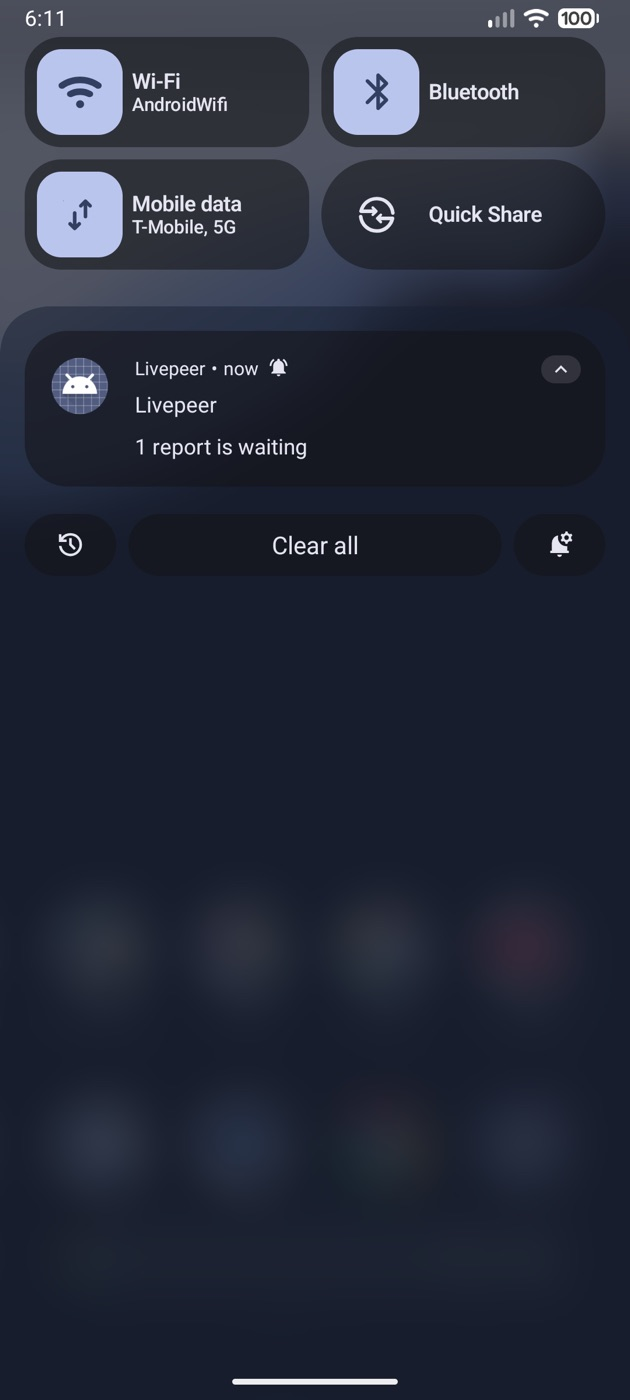
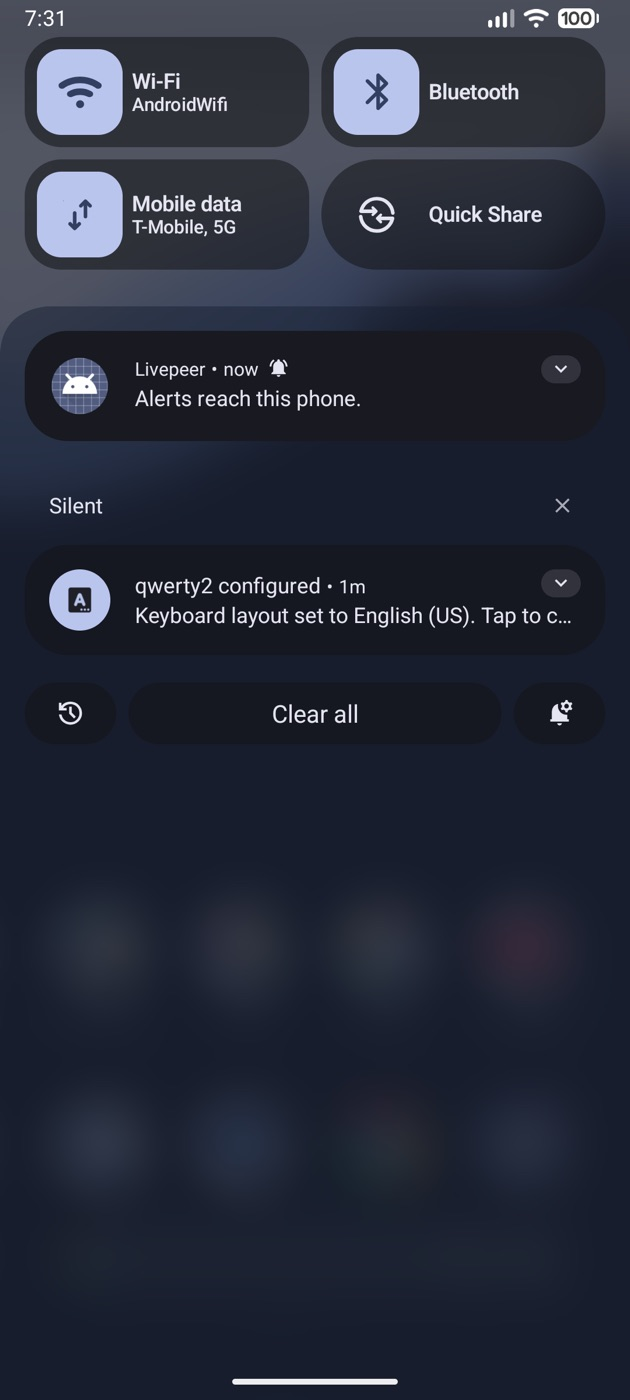
fix(mobile): four small things found while testing real alerts
- Android: a notification's title is shown only when it differs from the app's name.
- Server: a phone on a platform the instance holds no credentials for is left out, not tried and
  written to the audit log at every alert.
- Both apps: the console's cover says once, not twice, that it needs a face or fingerprint.
- Both apps: the keyboard goes when the console covers the app.

diff --git a/apps/android/app/src/main/kotlin/org/livepeer/app/MainActivity.kt b/apps/android/app/src/main/kotlin/org/livepeer/app/MainActivity.kt
@@ -16,6 +16,8 @@ import androidx.compose.foundation.isSystemInDarkTheme
 import androidx.compose.runtime.CompositionLocalProvider
 import androidx.compose.runtime.DisposableEffect
 import androidx.compose.runtime.LaunchedEffect
+import androidx.compose.ui.platform.LocalFocusManager
+import androidx.compose.ui.platform.LocalSoftwareKeyboardController
 import androidx.compose.runtime.getValue
 import androidx.lifecycle.compose.LifecycleResumeEffect
 import androidx.lifecycle.compose.collectAsStateWithLifecycle
@@ -60,7 +62,16 @@ class MainActivity : ComponentActivity() {
                 onDispose {}
             }
             val consoleUp by container.console.session.presented.collectAsStateWithLifecycle()
-            LaunchedEffect(consoleUp) { hideFromRecents(consoleUp) }
+            val keyboard = LocalSoftwareKeyboardController.current
+            val focus = LocalFocusManager.current
+            LaunchedEffect(consoleUp) {
+                hideFromRecents(consoleUp)
+                // Whatever was being typed under the console keeps its text, and loses the keyboard.
+                if (consoleUp) {
+                    focus.clearFocus(force = true)
+                    keyboard?.hide()
+                }
+            }
             // The description and the account are read again each time the app comes to the front.
             LifecycleResumeEffect(Unit) {
                 lifecycleScope.launch {

diff --git a/apps/android/app/src/main/kotlin/org/livepeer/app/alerts/AlertNotifications.kt b/apps/android/app/src/main/kotlin/org/livepeer/app/alerts/AlertNotifications.kt
@@ -22,9 +22,11 @@ object AlertNotifications {
         val manager = NotificationManagerCompat.from(context)
         if (!manager.areNotificationsEnabled()) return
         AlertChannels.create(context)
+        // The system heads every notification with the app's name. The instance's name under it would say it twice.
+        val title = alert.title.takeIf { it.isNotBlank() && it != context.applicationInfo.loadLabel(context.packageManager).toString() }
         val line = NotificationCompat.Builder(context, alert.channel)
             .setSmallIcon(R.drawable.ic_alert)
-            .setContentTitle(alert.title)
+            .setContentTitle(title)
             .setContentText(alert.body)
             .setAutoCancel(true)
             .setGroup(STACK_KEY)
@@ -33,7 +35,7 @@ object AlertNotifications {
         // Only the lines make themselves heard. The summary is there to hold them and to be tapped.
         val stack = NotificationCompat.Builder(context, alert.channel)
             .setSmallIcon(R.drawable.ic_alert)
-            .setContentTitle(alert.title)
+            .setContentTitle(title)
             .setAutoCancel(true)
             .setGroup(STACK_KEY)
             .setGroupSummary(true)

diff --git a/apps/web/lib/alerts/service.ts b/apps/web/lib/alerts/service.ts
@@ -79,7 +79,11 @@ export function alertsService({ store, sessions, audit, sender, enabled, name, n
 
   /** Sends to several phones at once and answers with the sessions that were reached. */
   const sendAll = async (targets: AlertTarget[], notification: (target: AlertTarget) => PushNotification, what: string): Promise<string[]> => {
-    const reached = (await Promise.all(targets.map(async (target) => ((await send(target, notification(target), what)) ? target.sessionId : null)))).filter((id): id is string => id !== null);
+    // A phone on a platform the instance holds no credentials for is left out: there is nothing to try, and a
+    // line in the audit log for each alert would bury the ones that matter. System and the phone's own Alerts
+    // page already say that platform isn't set up.
+    const offered = targets.filter((target) => sender().offers(target.platform));
+    const reached = (await Promise.all(offered.map(async (target) => ((await send(target, notification(target), what)) ? target.sessionId : null)))).filter((id): id is string => id !== null);
     sessions().alerted(reached);
     return reached;
   };

diff --git a/apps/web/lib/alerts/service.test.ts b/apps/web/lib/alerts/service.test.ts
@@ -250,6 +250,24 @@ describe("the lease", () => {
   });
 });
 
+it("leaves out a phone on a platform it can't send to, without a line in the audit log each time", async () => {
+  const { alerts, offers, enrol, to, sent, events } = setup();
+  const iphone = enrol(sam, "Sam's iPhone");
+  const pixel = enrol(sam, "Sam's Pixel", ALL, "android");
+  offers.android = false;
+  await engineDown(alerts);
+  await alerts.settled();
+  expect(to(iphone.pushToken)).toEqual(["The engine isn't ready"]);
+  expect(to(pixel.pushToken)).toEqual([]);
+  expect(events().filter((entry) => entry.device_name === "Sam's Pixel")).toEqual([]);
+  // It wasn't told the engine was down, so it isn't told it is back. Its alerts stay on for the next one.
+  offers.android = true;
+  await engineUp(alerts);
+  await alerts.settled();
+  expect(sent.filter((entry) => entry.target.token === pixel.pushToken)).toEqual([]);
+  expect(pixel.session().alerts?.pushSealed).toBeTruthy();
+});
+
 it("says whether a platform can be sent to, and whether a push token is that platform's", () => {
   const { alerts, offers } = setup();
   offers.android = false;

diff --git a/apps/android/app/src/main/kotlin/org/livepeer/app/console/ConsoleRoot.kt b/apps/android/app/src/main/kotlin/org/livepeer/app/console/ConsoleRoot.kt
@@ -242,7 +242,8 @@ private fun ConsoleGate(container: AppContainer, back: (() -> Unit)?, openBrowse
             } else if (signedOut) {
                 BasicText("For the people who run this service. It opens with your fingerprint or face on this phone.", style = TypeSize.Body.style().copy(color = palette.mutedForeground, textAlign = TextAlign.Center))
             }
-            failure?.takeIf { !signingIn }?.let {
+            // Without a fingerprint or face the grey sentence above already says why; the same words in red add nothing.
+            failure?.takeIf { !signingIn && (biometrics || it != ConsoleSession.NEEDS_BIOMETRICS) }?.let {
                 BasicText(it, style = TypeSize.Body.style().copy(color = palette.destructive, textAlign = TextAlign.Center), modifier = Modifier.semantics { liveRegion = LiveRegionMode.Polite })
             }
         }

diff --git a/apps/ios/Livepeer/Features/Console/ConsoleRoot.swift b/apps/ios/Livepeer/Features/Console/ConsoleRoot.swift
@@ -71,7 +71,8 @@ private struct ConsoleGate: View {
                         .foregroundStyle(palette.mutedForeground)
                         .multilineTextAlignment(.center)
                 }
-                if let failure = session.failure, signingIn == nil {
+                // Without Face ID the grey sentence above already says why; the same words in red add nothing.
+                if let failure = session.failure, signingIn == nil, biometry != nil || failure != ConsoleSession.needsBiometrics {
                     Text(failure)
                         .text(.body)
                         .foregroundStyle(palette.destructive)

diff --git a/apps/ios/Livepeer/App/LivepeerApp.swift b/apps/ios/Livepeer/App/LivepeerApp.swift
@@ -85,6 +85,10 @@ struct RootView: View {
         .environment(\.palette, palette)
         .tint(palette.foreground)
         .preferredColorScheme(theme == "dark" ? .dark : theme == "light" ? .light : nil)
+        // Whatever was being typed under the console keeps its text, and loses the keyboard.
+        .onChange(of: console.presented) { _, presented in
+            if presented { UIApplication.shared.sendAction(#selector(UIResponder.resignFirstResponder), to: nil, from: nil, for: nil) }
+        }
         .onChange(of: scenePhase) { _, phase in
             guard phase == .active else { return }
             Task {

diff --git a/docs/mobile/plan.md b/docs/mobile/plan.md
@@ -1730,7 +1730,8 @@ the app showed them, the first one sent after pressing Home never appeared. The 
 only while the app is in front (`ConsoleSession.away`). iOS never had this: it asks the app only when the app
 is in front.
 
-Still as it was: the title repeats the app's name, and a phone the instance can't send to is tried every time.
+The title repeating the app's name and a phone the instance can't send to being tried every time were
+mended later the same day (below).
 
 **22 November 2026, night: a real alert on iOS, through Apple.** The owner's Apple Developer membership came
 through. An App ID for `org.livepeer.app.dev` with Push Notifications and one APNs key (sandbox and
@@ -1772,11 +1773,21 @@ push token from Apple's sandbox.
 Still not seen on iOS: time-sensitive delivery for the engine's alert, a tap with the console already open,
 Apple's production service, and what the hardware key does when a face is added.
 
-Found in passing, in stage 1's code, and left alone:
+**22 November 2026, late: four small things mended.** Each was found while running the above.
 
-- On a phone with no Face ID set up, the console's cover says "The console needs Face ID or Touch ID…" twice,
-  once in grey and once in red.
-- If the composer's keyboard is up when the console is opened, it stays up over the console's cover.
+- **An Android notification no longer says the app's name twice.** The title is shown only when it differs
+  from the app's own name, which the system already puts at the head. Seen in the emulator with a real test
+  alert: "Livepeer · now", then "Alerts reach this phone." (`android-console-alert-shade-dark.jpg`).
+- **A phone the instance can't send to is left out**, not tried and logged at every alert. With no APNs key,
+  each alert had written "failed (not set up)" for each iPhone with alerts on. System and the phone's own
+  Alerts page already say the platform isn't set up. Covered by a test.
+- **The cover says why it can't open once.** On a phone with no face or fingerprint set up, the sentence was
+  there in grey and again in red, on both platforms. Seen in the simulator with Face ID switched off.
+- **The keyboard goes when the console covers the app**, on both platforms. On Android the account tray
+  already took it down, so the fault was iOS's. Not seen on iOS: the simulator shows no keyboard while the
+  Mac's is attached. It wants one look on a real iPhone.
+
+197 web tests, 84 Android and 65 iOS unit tests pass.
 
 ### 18.9 Stage 3: push alerts (specified and accepted 21 November 2026; server half built)
 
